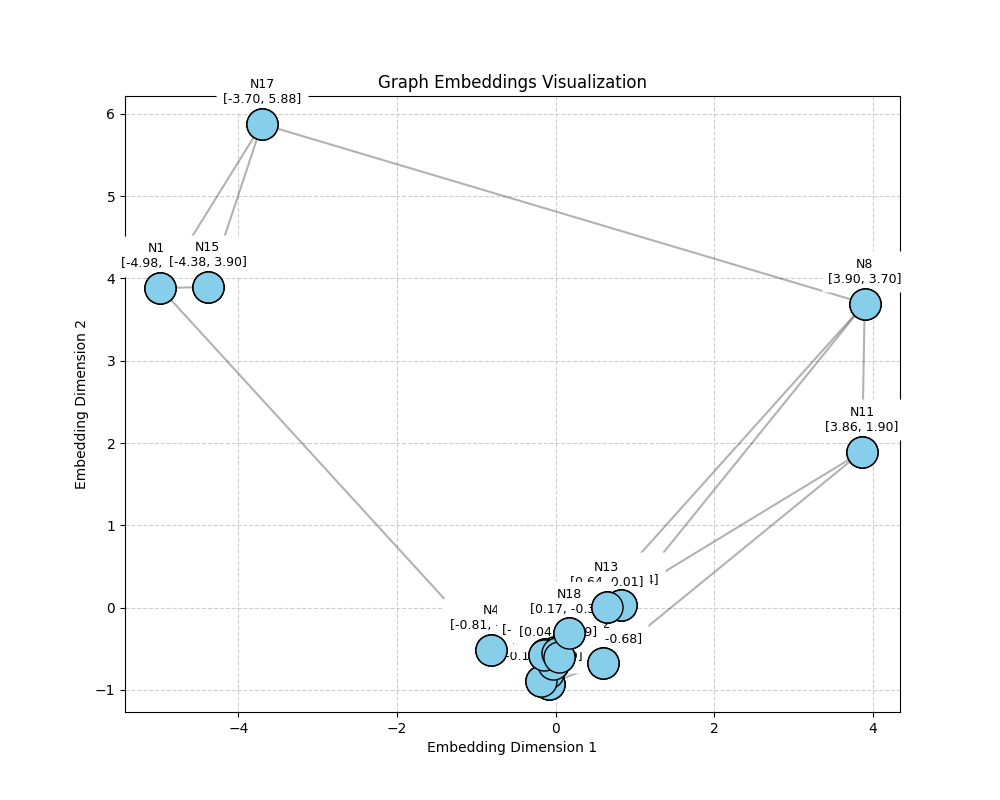
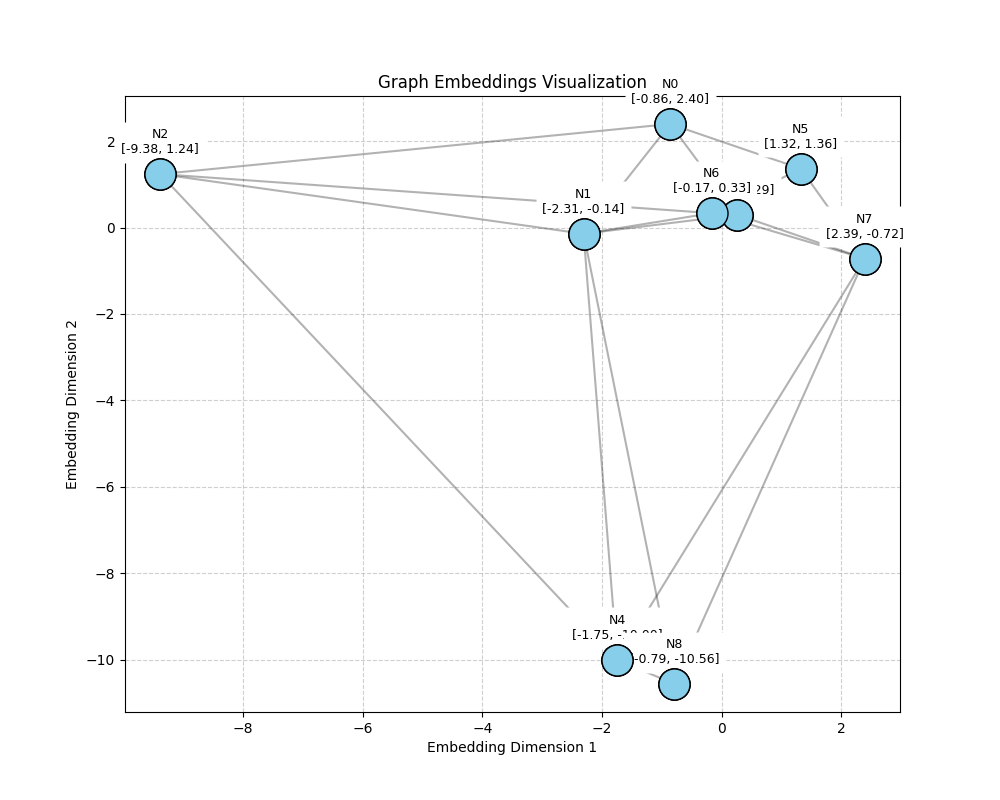
Refactor

diff --git a/main.py b/main.py
@@ -1,7 +1,7 @@
 """Main script to demonstrate the GraphEmbedding model on a simple graph.
 
-This script initializes a GraphEmbedding model, trains it on a small line graph 
-with a random number of nodes between 5 and 20, and prints the learned 
+This script initializes a GraphEmbedding model, trains it on a randomly generated 
+graph with between 8 and 20 nodes, and prints/plots the learned 
 embeddings for each node after training.
 
 Usage:
@@ -13,7 +13,7 @@ from visualization import plot_graph_embeddings
 
 # The big red activation button.
 if __name__ == "__main__":
-    num_nodes = random.randint(5, 20) # Generate a random number of nodes between 5 and 20.
+    num_nodes = random.randint(8, 20) # Generate a random number of nodes between 8 and 20.
     # Generate random edges for the graph.
     edges = []
     for i in range(num_nodes):
@@ -29,7 +29,7 @@ if __name__ == "__main__":
     print(f"Initializing GraphEmbedding model with {num_nodes} nodes and {len(edges)} edges...")
     model = GraphEmbedding(num_nodes=num_nodes, embedding_dim=2, lr=0.1)
     print("Training starting...")
-    model.train(edges, epochs=150, negative_samples=4)
+    model.train(edges, epochs=550, negative_samples=4)
     print("Learned Embeddings:")
     for i in range(num_nodes):
         emb = [round(x, 4) for x in model.get_embedding(i)]

diff --git a/graph_embedding.py b/graph_embedding.py
@@ -3,14 +3,6 @@
 It optimizes node embeddings to preserve first-order proximity using
 stochastic gradient descent with negative sampling.
 
-Args:
-    num_nodes (int): Number of nodes in the graph.
-    embedding_dim (int): Dimensionality of the node embeddings.
-    lr (float): Learning rate for optimization.
-
-Returns:
-    A GraphEmbedding instance with trained node embeddings.
-
 Usage:
     from graph_embedding import GraphEmbedding
     model = GraphEmbedding(num_nodes=10, embedding_dim=2, lr=0.1)
